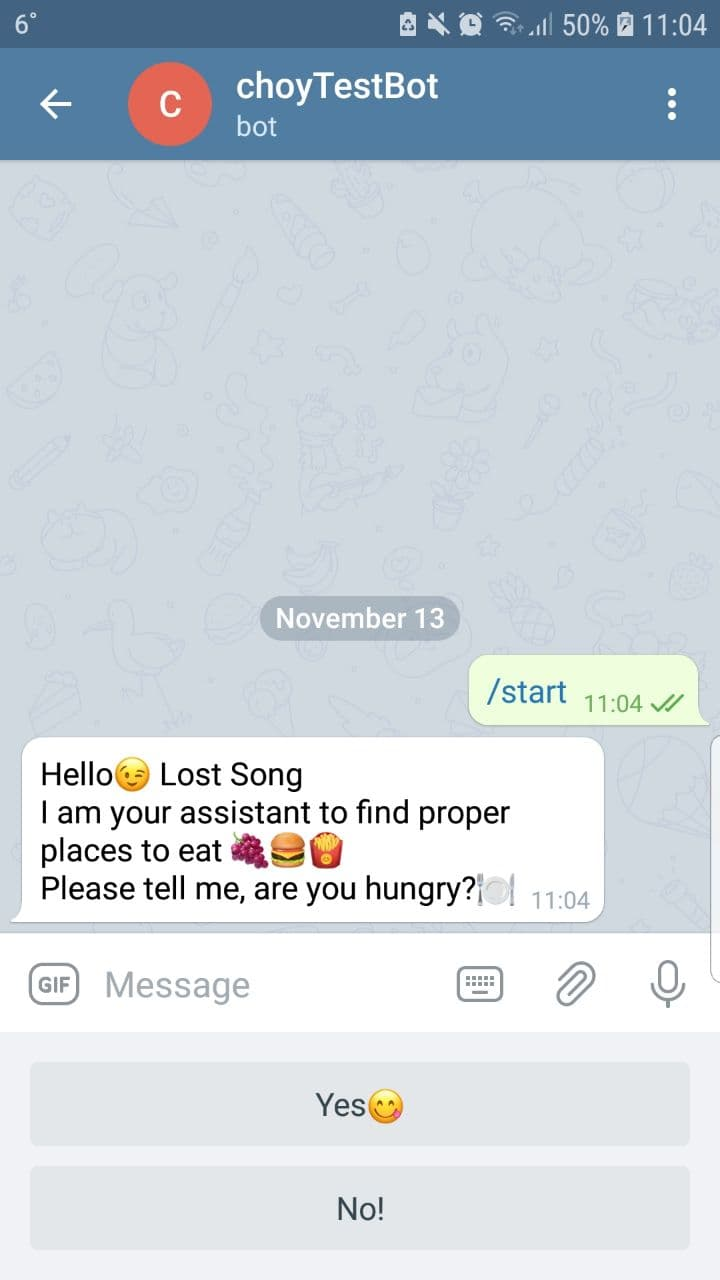
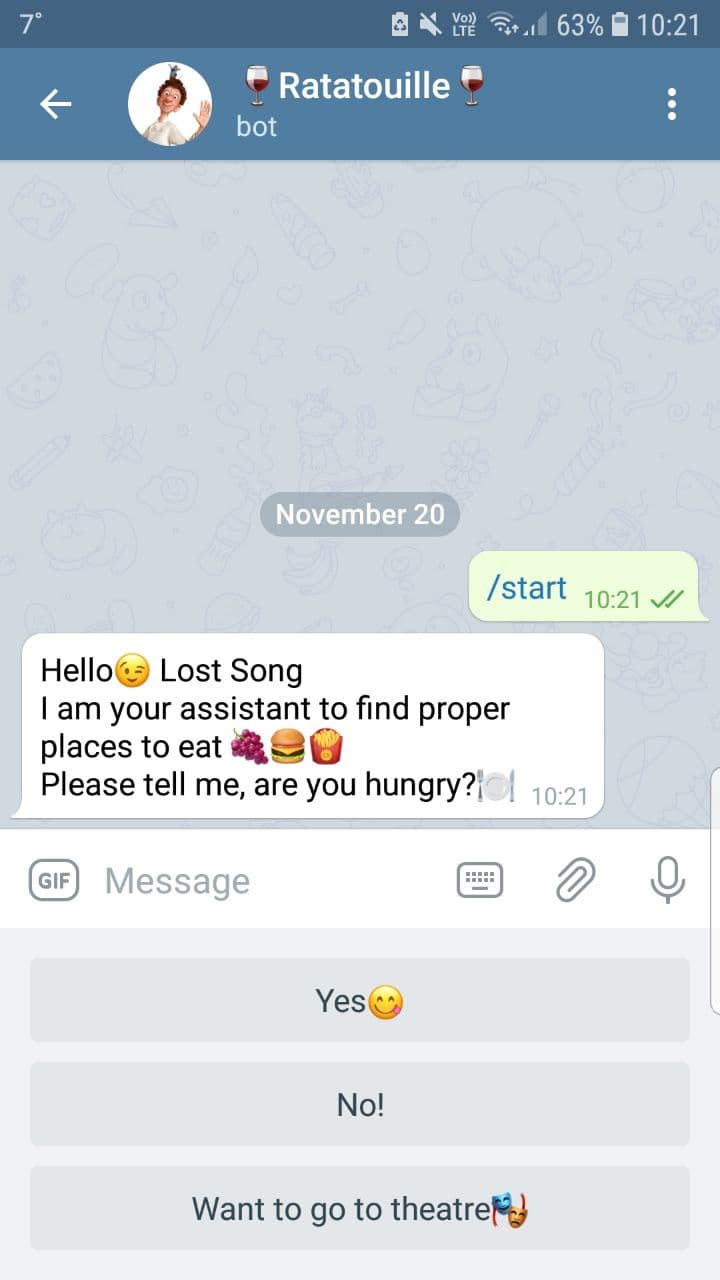
changes in README.md

diff --git a/README.md b/README.md
@@ -1,4 +1,4 @@
-# Telegram Bot Which Helps To Find Places Near(now available restaurants)
+# Telegram Bot Which Helps To Find Places Near(now available restaurants also after update 20.11.20 available theatres in Warsaw)
 
 Bot created with the help of **Spring Framework**. Dependencies are added
 with **Maven**. Places stored in **postgres database**, and in Java class
@@ -20,4 +20,7 @@ details about the places. Photos for detais:
 ![fourth](https://github.com/khashimovSh/Where_Is_Food_Bot_Telegram/blob/master/screenshots/44.jpg)
 ![fifth](https://github.com/khashimovSh/Where_Is_Food_Bot_Telegram/blob/master/screenshots/55.jpg)
 ![sixth](https://github.com/khashimovSh/Where_Is_Food_Bot_Telegram/blob/master/screenshots/66.jpg)
-
+![seventh](https://github.com/khashimovSh/Where_Is_Food_Bot_Telegram/blob/master/screenshots/77.jpg)
+![eight](https://github.com/khashimovSh/Where_Is_Food_Bot_Telegram/blob/master/screenshots/88.jpg)
+![nine](https://github.com/khashimovSh/Where_Is_Food_Bot_Telegram/blob/master/screenshots/99.jpg)
+![ten](https://github.com/khashimovSh/Where_Is_Food_Bot_Telegram/blob/master/screenshots/10.jpg)
